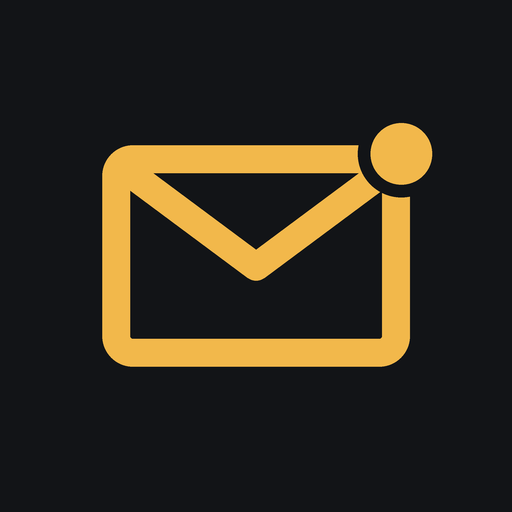
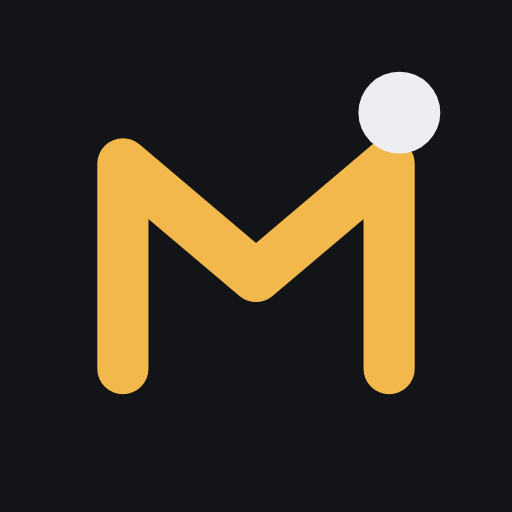
1.6.3 : nouvelle icône B (monogramme M), nom MailBox
Claude-Session: https://claude.ai/code/session_01HRcQojKZ8AkaDHshugLFMj

Changed region(s): [[0.1875, 0.125, 0.875, 0.7812]]

diff --git a/index.html b/index.html
@@ -3,17 +3,17 @@
 <head>
 <meta charset="utf-8">
 <meta name="viewport" content="width=device-width, initial-scale=1, viewport-fit=cover">
-<title>Mail lisible</title>
+<title>MailBox</title>
 <meta name="theme-color" content="#121417">
 <meta name="apple-mobile-web-app-capable" content="yes">
 <meta name="mobile-web-app-capable" content="yes">
 <meta name="apple-mobile-web-app-status-bar-style" content="black-translucent">
-<meta name="apple-mobile-web-app-title" content="Mail lisible">
+<meta name="apple-mobile-web-app-title" content="MailBox">
 <meta name="referrer" content="no-referrer">
 <link rel="manifest" href="manifest.webmanifest">
-<link rel="apple-touch-icon" href="apple-touch-icon.png">
-<link rel="icon" href="icon-192.png">
-<link rel="stylesheet" href="styles.css?v=1.6.1">
+<link rel="apple-touch-icon" href="apple-touch-icon-v2.png">
+<link rel="icon" href="icon-192.png?v=2">
+<link rel="stylesheet" href="styles.css?v=1.6.3">
 </head>
 <body>
 <div id="app">
@@ -28,6 +28,6 @@
 </div>
 <div id="sheet" hidden></div>
 <div id="toast" role="status" aria-live="polite"></div>
-<script src="app.js?v=1.6.1"></script>
+<script src="app.js?v=1.6.3"></script>
 </body>
 </html>

diff --git a/sw.js b/sw.js
@@ -1,5 +1,5 @@
-const V = 'ml-1.6.1';
-const SHELL = ['./', 'index.html', 'styles.css', 'app.js', 'manifest.webmanifest', 'icon-192.png', 'icon-512.png', 'apple-touch-icon.png'];
+const V = 'ml-1.6.3';
+const SHELL = ['./', 'index.html', 'styles.css', 'app.js', 'manifest.webmanifest', 'icon-192.png', 'icon-512.png', 'apple-touch-icon-v2.png'];
 self.addEventListener('install', e => { e.waitUntil(caches.open(V).then(c => c.addAll(SHELL)).then(() => self.skipWaiting())); });
 self.addEventListener('activate', e => { e.waitUntil(caches.keys().then(ks => Promise.all(ks.filter(k => k !== V).map(k => caches.delete(k)))).then(() => self.clients.claim())); });
 self.addEventListener('fetch', e => {

diff --git a/app.js b/app.js
@@ -1,7 +1,7 @@
 /* Mail lisible : client Gmail PWA. Aucun identifiant n'est stocké dans ce code. */
 'use strict';
 
-const APP_VERSION = '1.6.1';
+const APP_VERSION = '1.6.3';
 const APP_DATE = '17/11/2026';
 
 const SCOPE = 'https://www.googleapis.com/auth/gmail.modify https://www.googleapis.com/auth/gmail.settings.basic';
